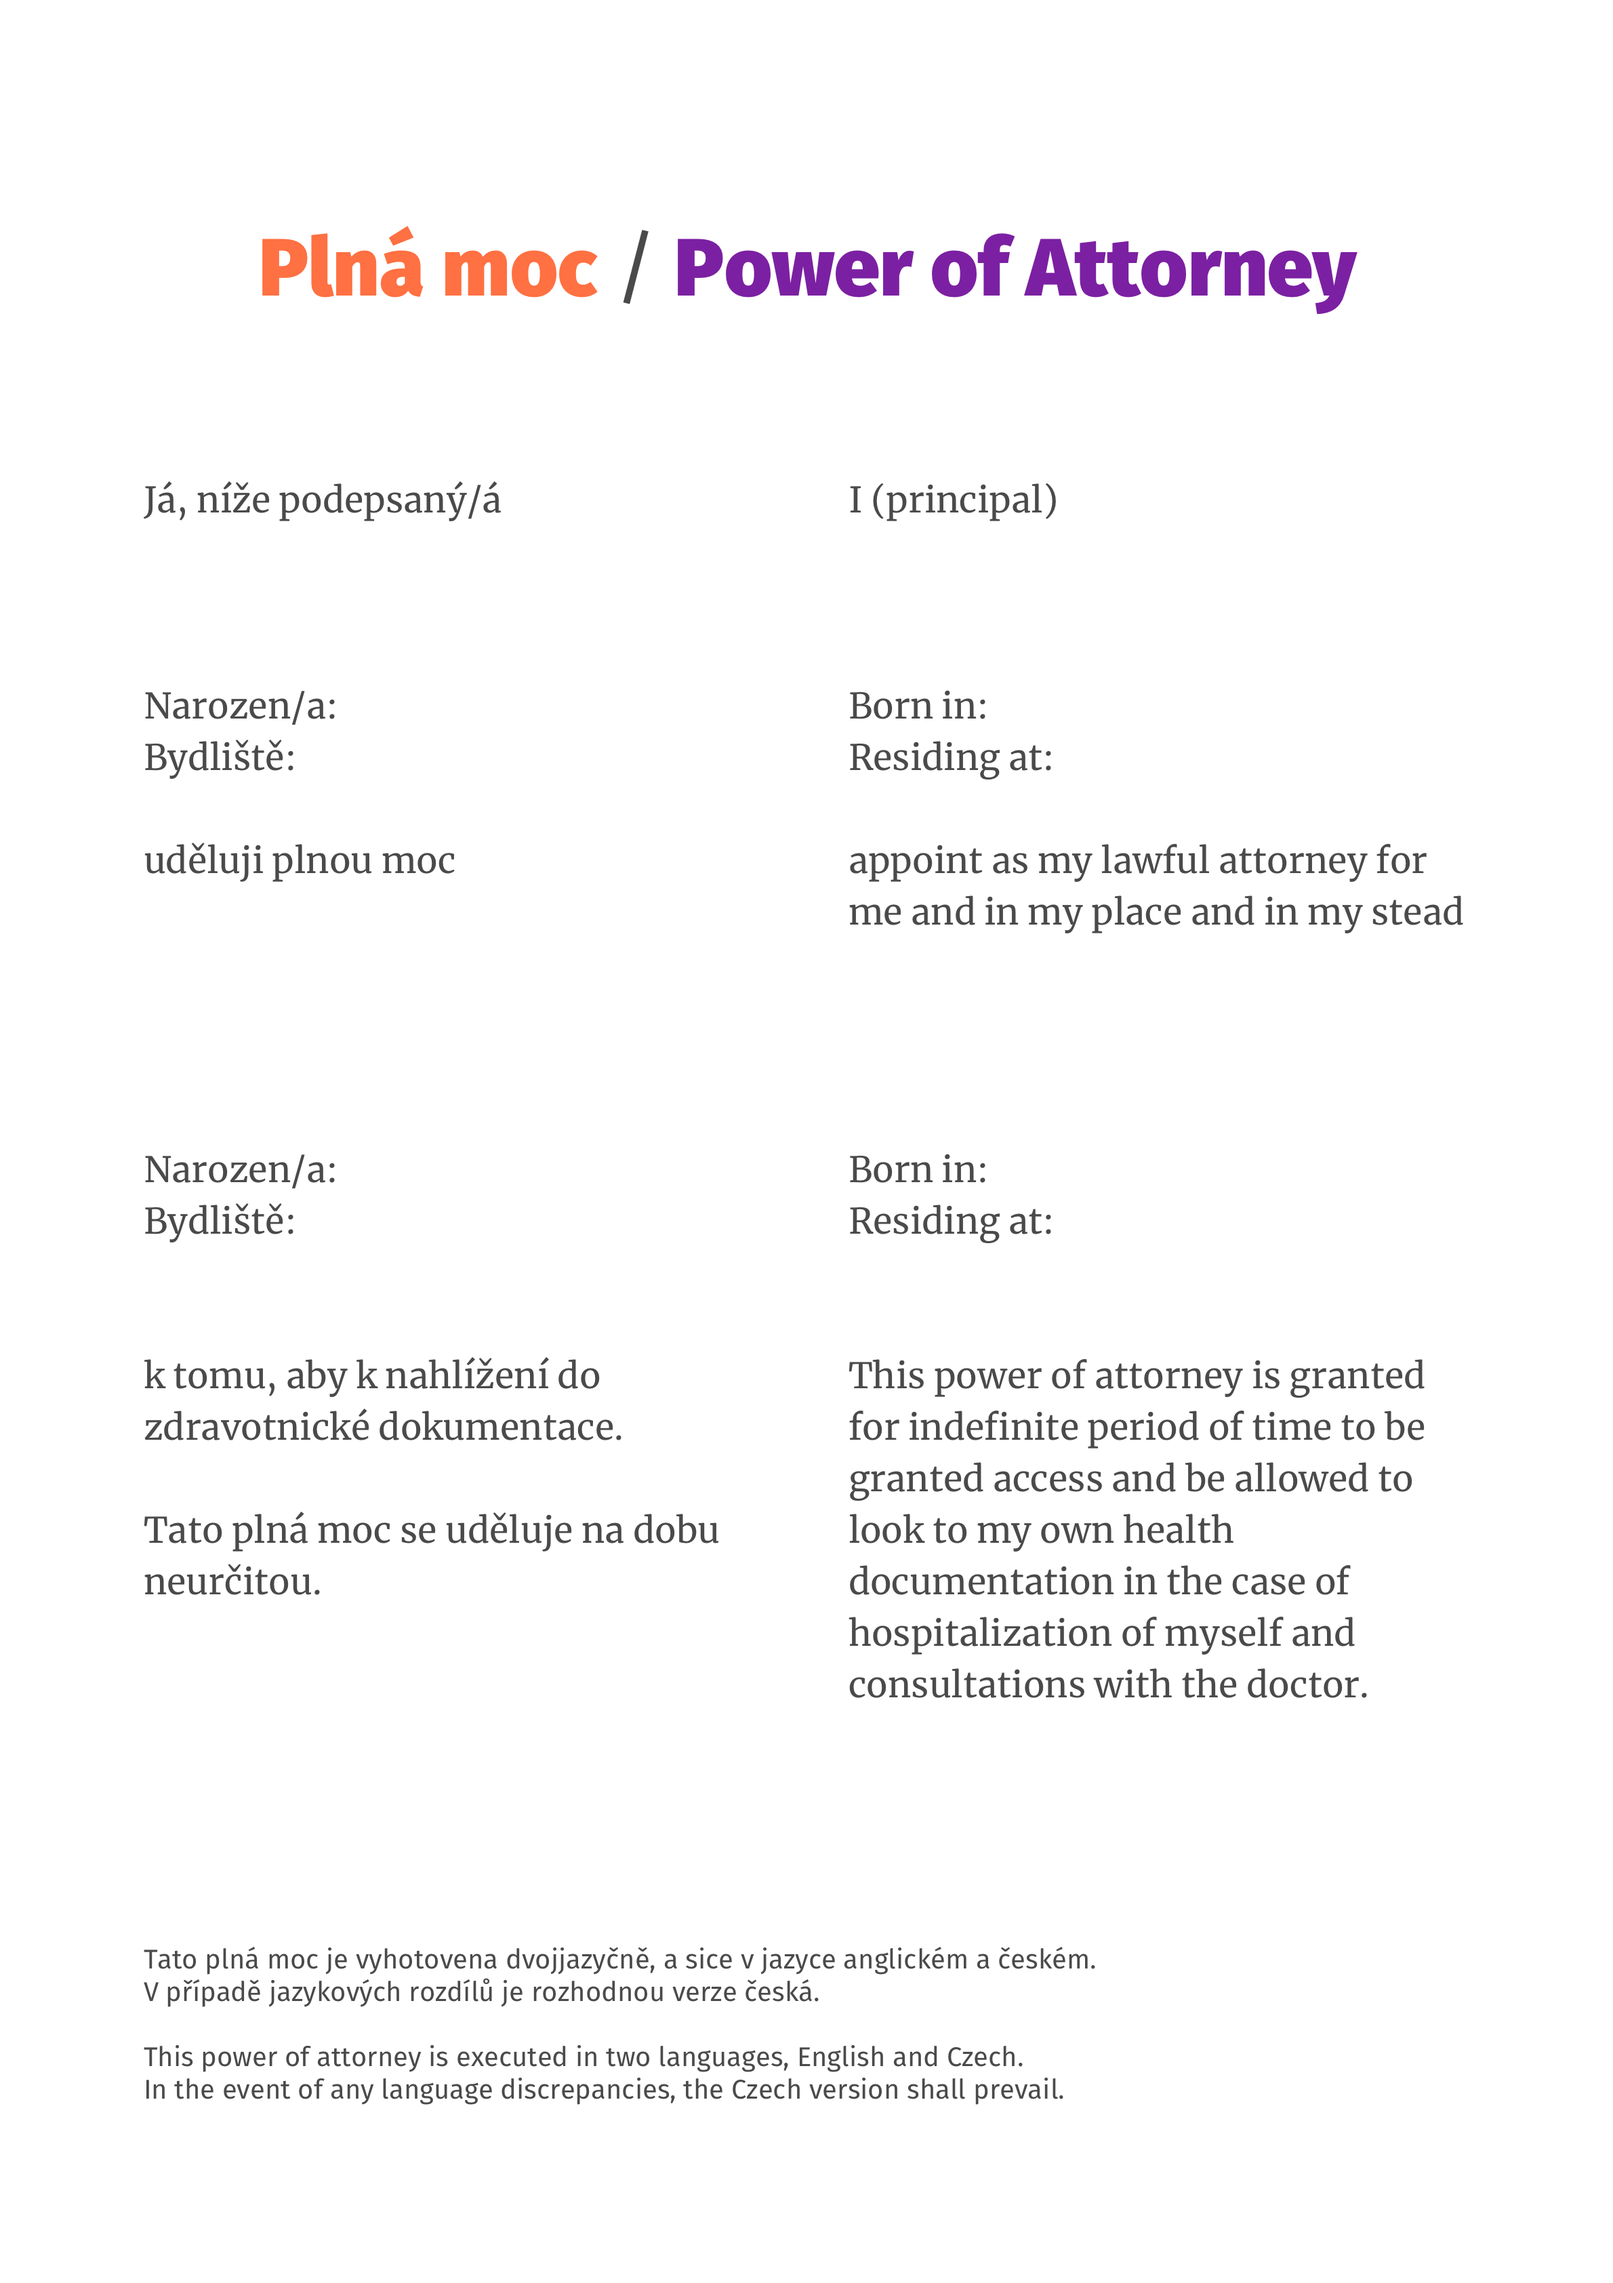
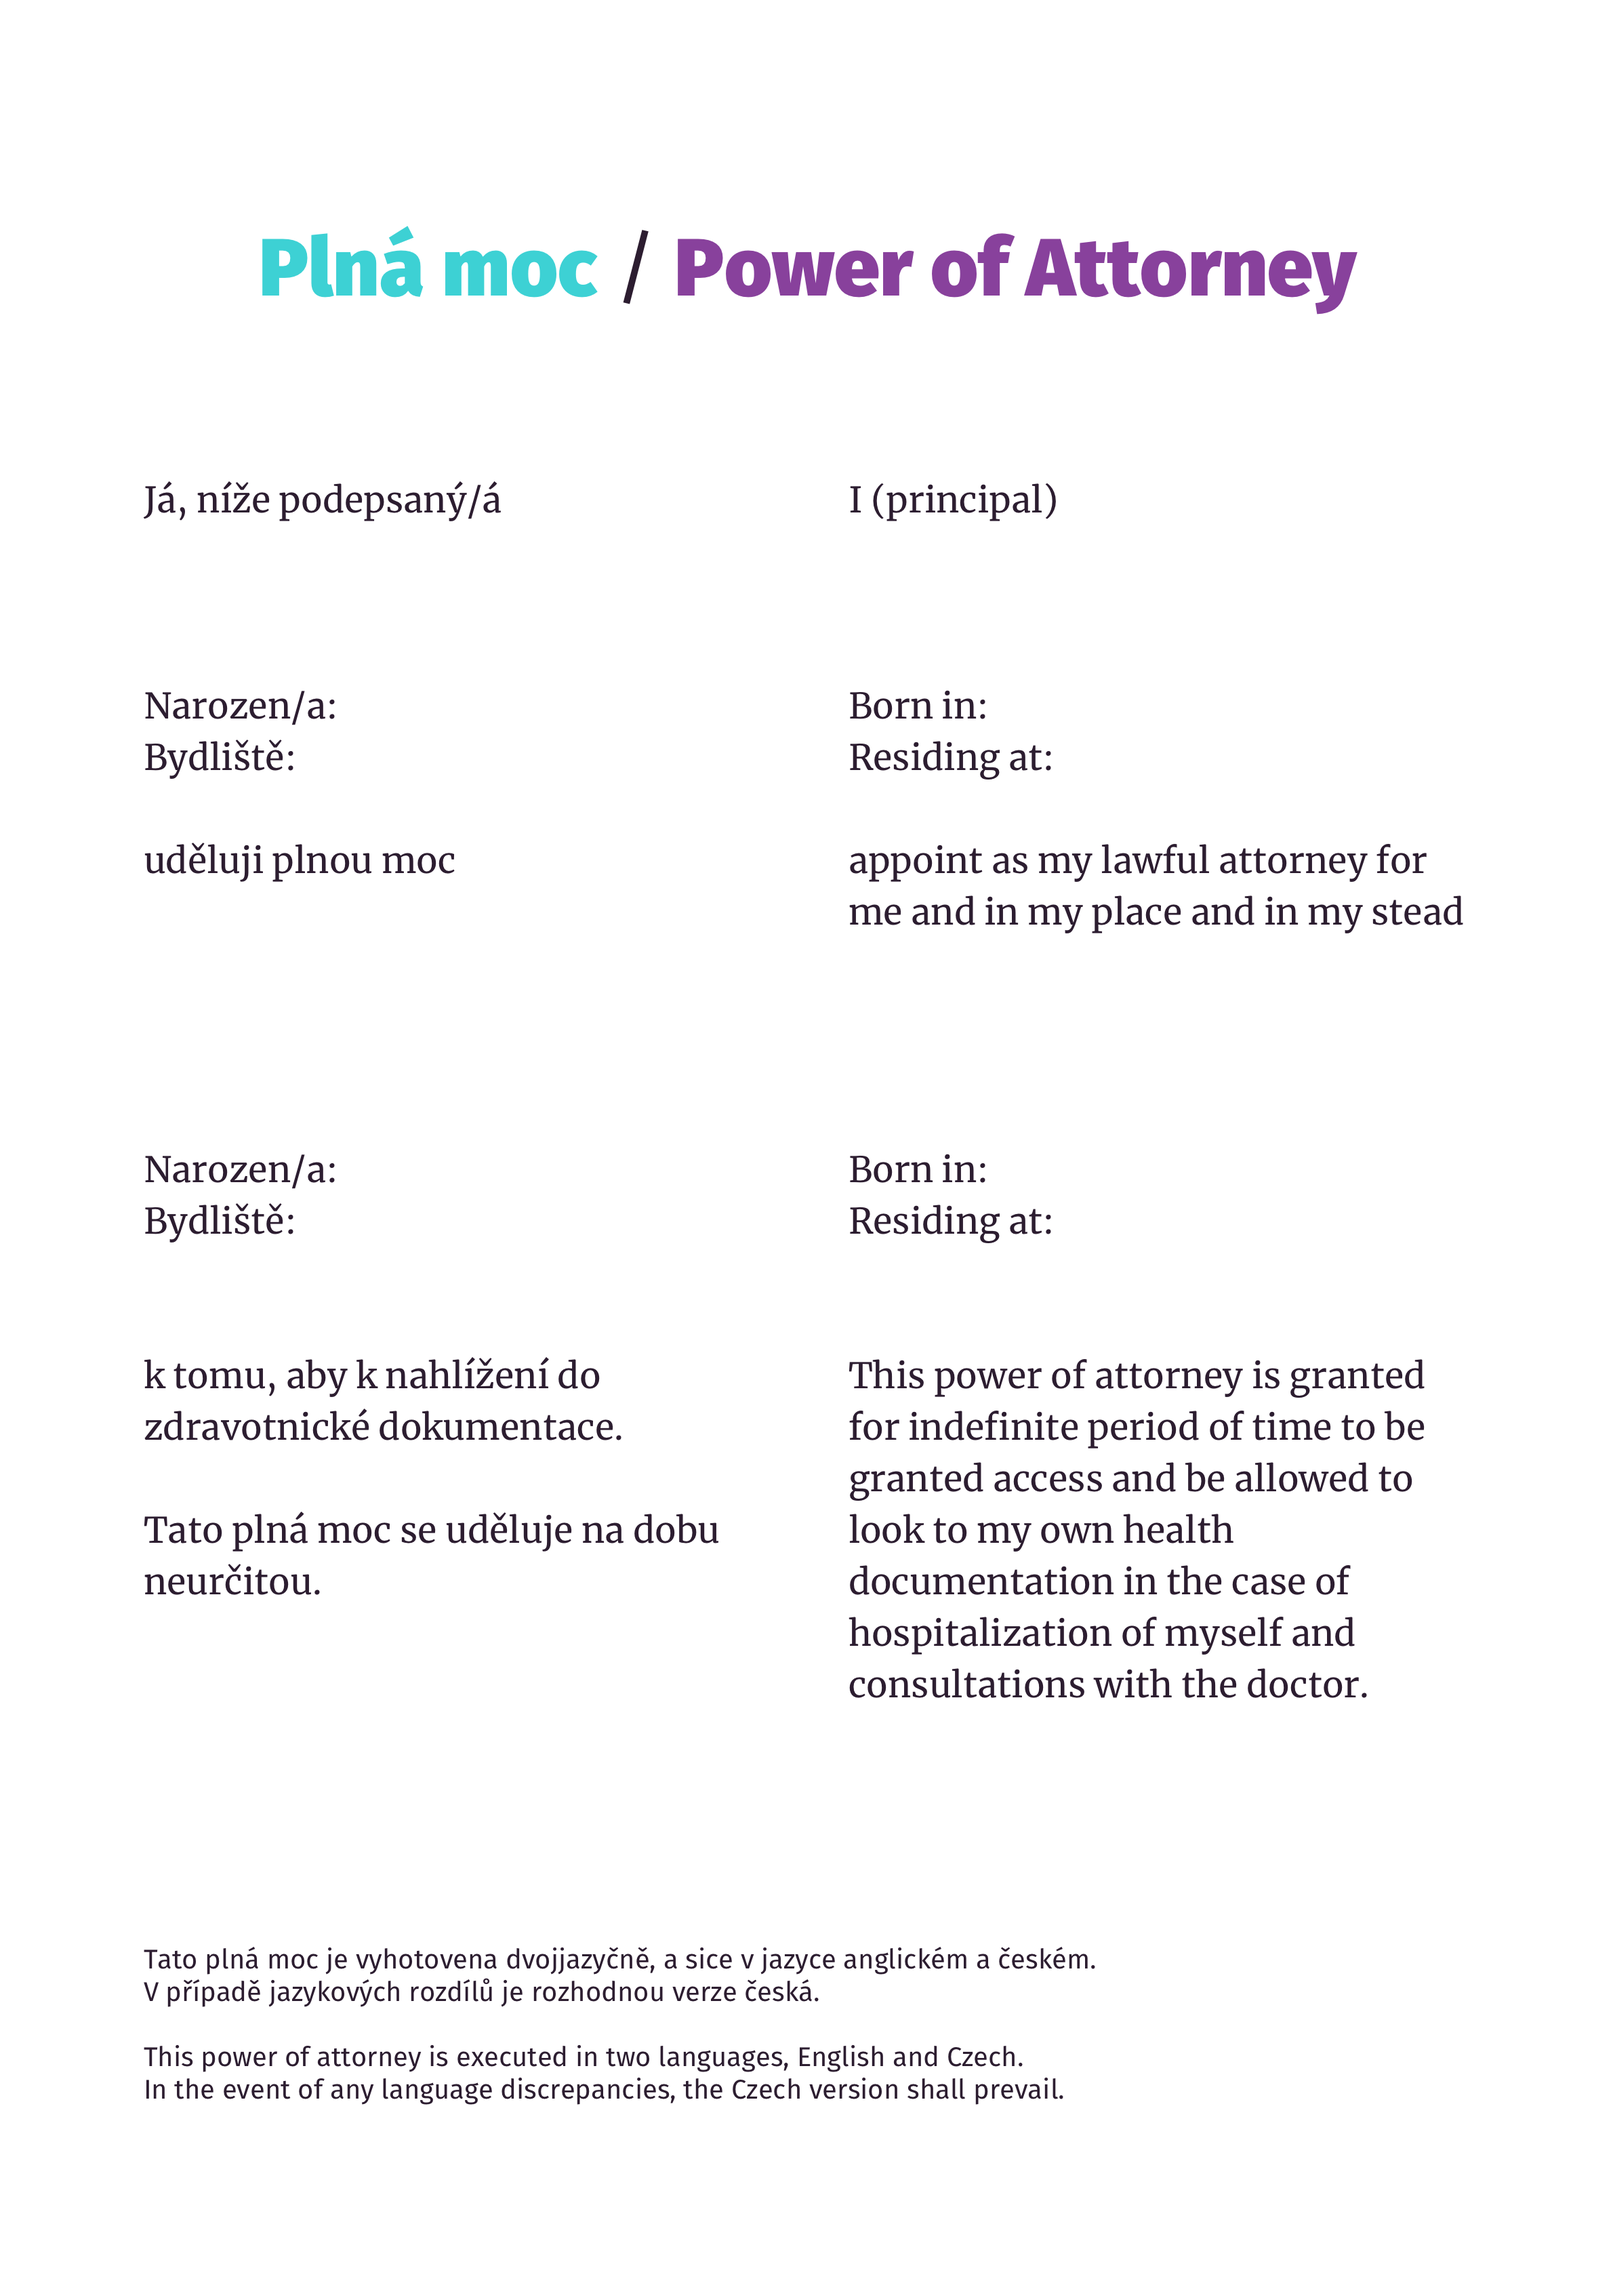
new design

diff --git a/contract_generator/cert.py b/contract_generator/cert.py
@@ -13,7 +13,7 @@ class CertGenerator(object):
         self.font_small = ImageFont.truetype(font_file, 40)
 
 
-        self.font_color = (225, 112, 66)
+        self.font_color = (136, 65, 156)
 
         self.image_file_in = image_file_in
         self.image_file_out = image_file_out
@@ -23,15 +23,15 @@ class CertGenerator(object):
 
     def add_names(self, name_top, name_bottom, name_top_id, name_bottom_id):
 
-        self.draw.text((200, 1000), name_top, self.font_color, font=self.font)
-        self.draw.text((1250, 1000), name_bottom, self.font_color, font=self.font)
+        self.draw.text((200, 1000), name_top, (136, 65, 156), font=self.font)
+        self.draw.text((1250, 1000), name_bottom, (136, 65, 156), font=self.font)
 
-        self.draw.text((200, 1150), name_top_id, self.font_color, font=self.font_small)
-        self.draw.text((1250, 1150), name_bottom_id, self.font_color, font=self.font_small)
+        self.draw.text((200, 1150), name_top_id, (61, 209, 212), font=self.font_small)
+        self.draw.text((1250, 1150), name_bottom_id, (61, 209, 212), font=self.font_small)
 
     def add_contract_id(self, contract_id):
 
-        self.draw.text((200, 2050), contract_id, (123, 32, 162), font=self.font)
+        self.draw.text((200, 2050), contract_id, (136, 65, 156), font=self.font)
 
     def add_expiration_date(self, months):
 

diff --git a/contract_generator/power_of.py b/contract_generator/power_of.py
@@ -22,11 +22,11 @@ class PowerOfGenerator(object):
 
         draw = ImageDraw.Draw(im1)
 
-        draw.text((200, 850), name_top, self.font_color, font=self.font)
-        draw.text((1250, 850), name_top, self.font_color, font=self.font)
+        draw.text((200, 850), name_top, (136, 65, 156), font=self.font)
+        draw.text((1250, 850), name_top, (61, 209, 212), font=self.font)
 
-        draw.text((200, 1500), name_bottom, self.font_color, font=self.font)
-        draw.text((1250, 1500), name_bottom, self.font_color, font=self.font)
+        draw.text((200, 1500), name_bottom, (61, 209, 212), font=self.font)
+        draw.text((1250, 1500), name_bottom, (136, 65, 156), font=self.font)
 
         im1.save(self.image_file_out)
 
